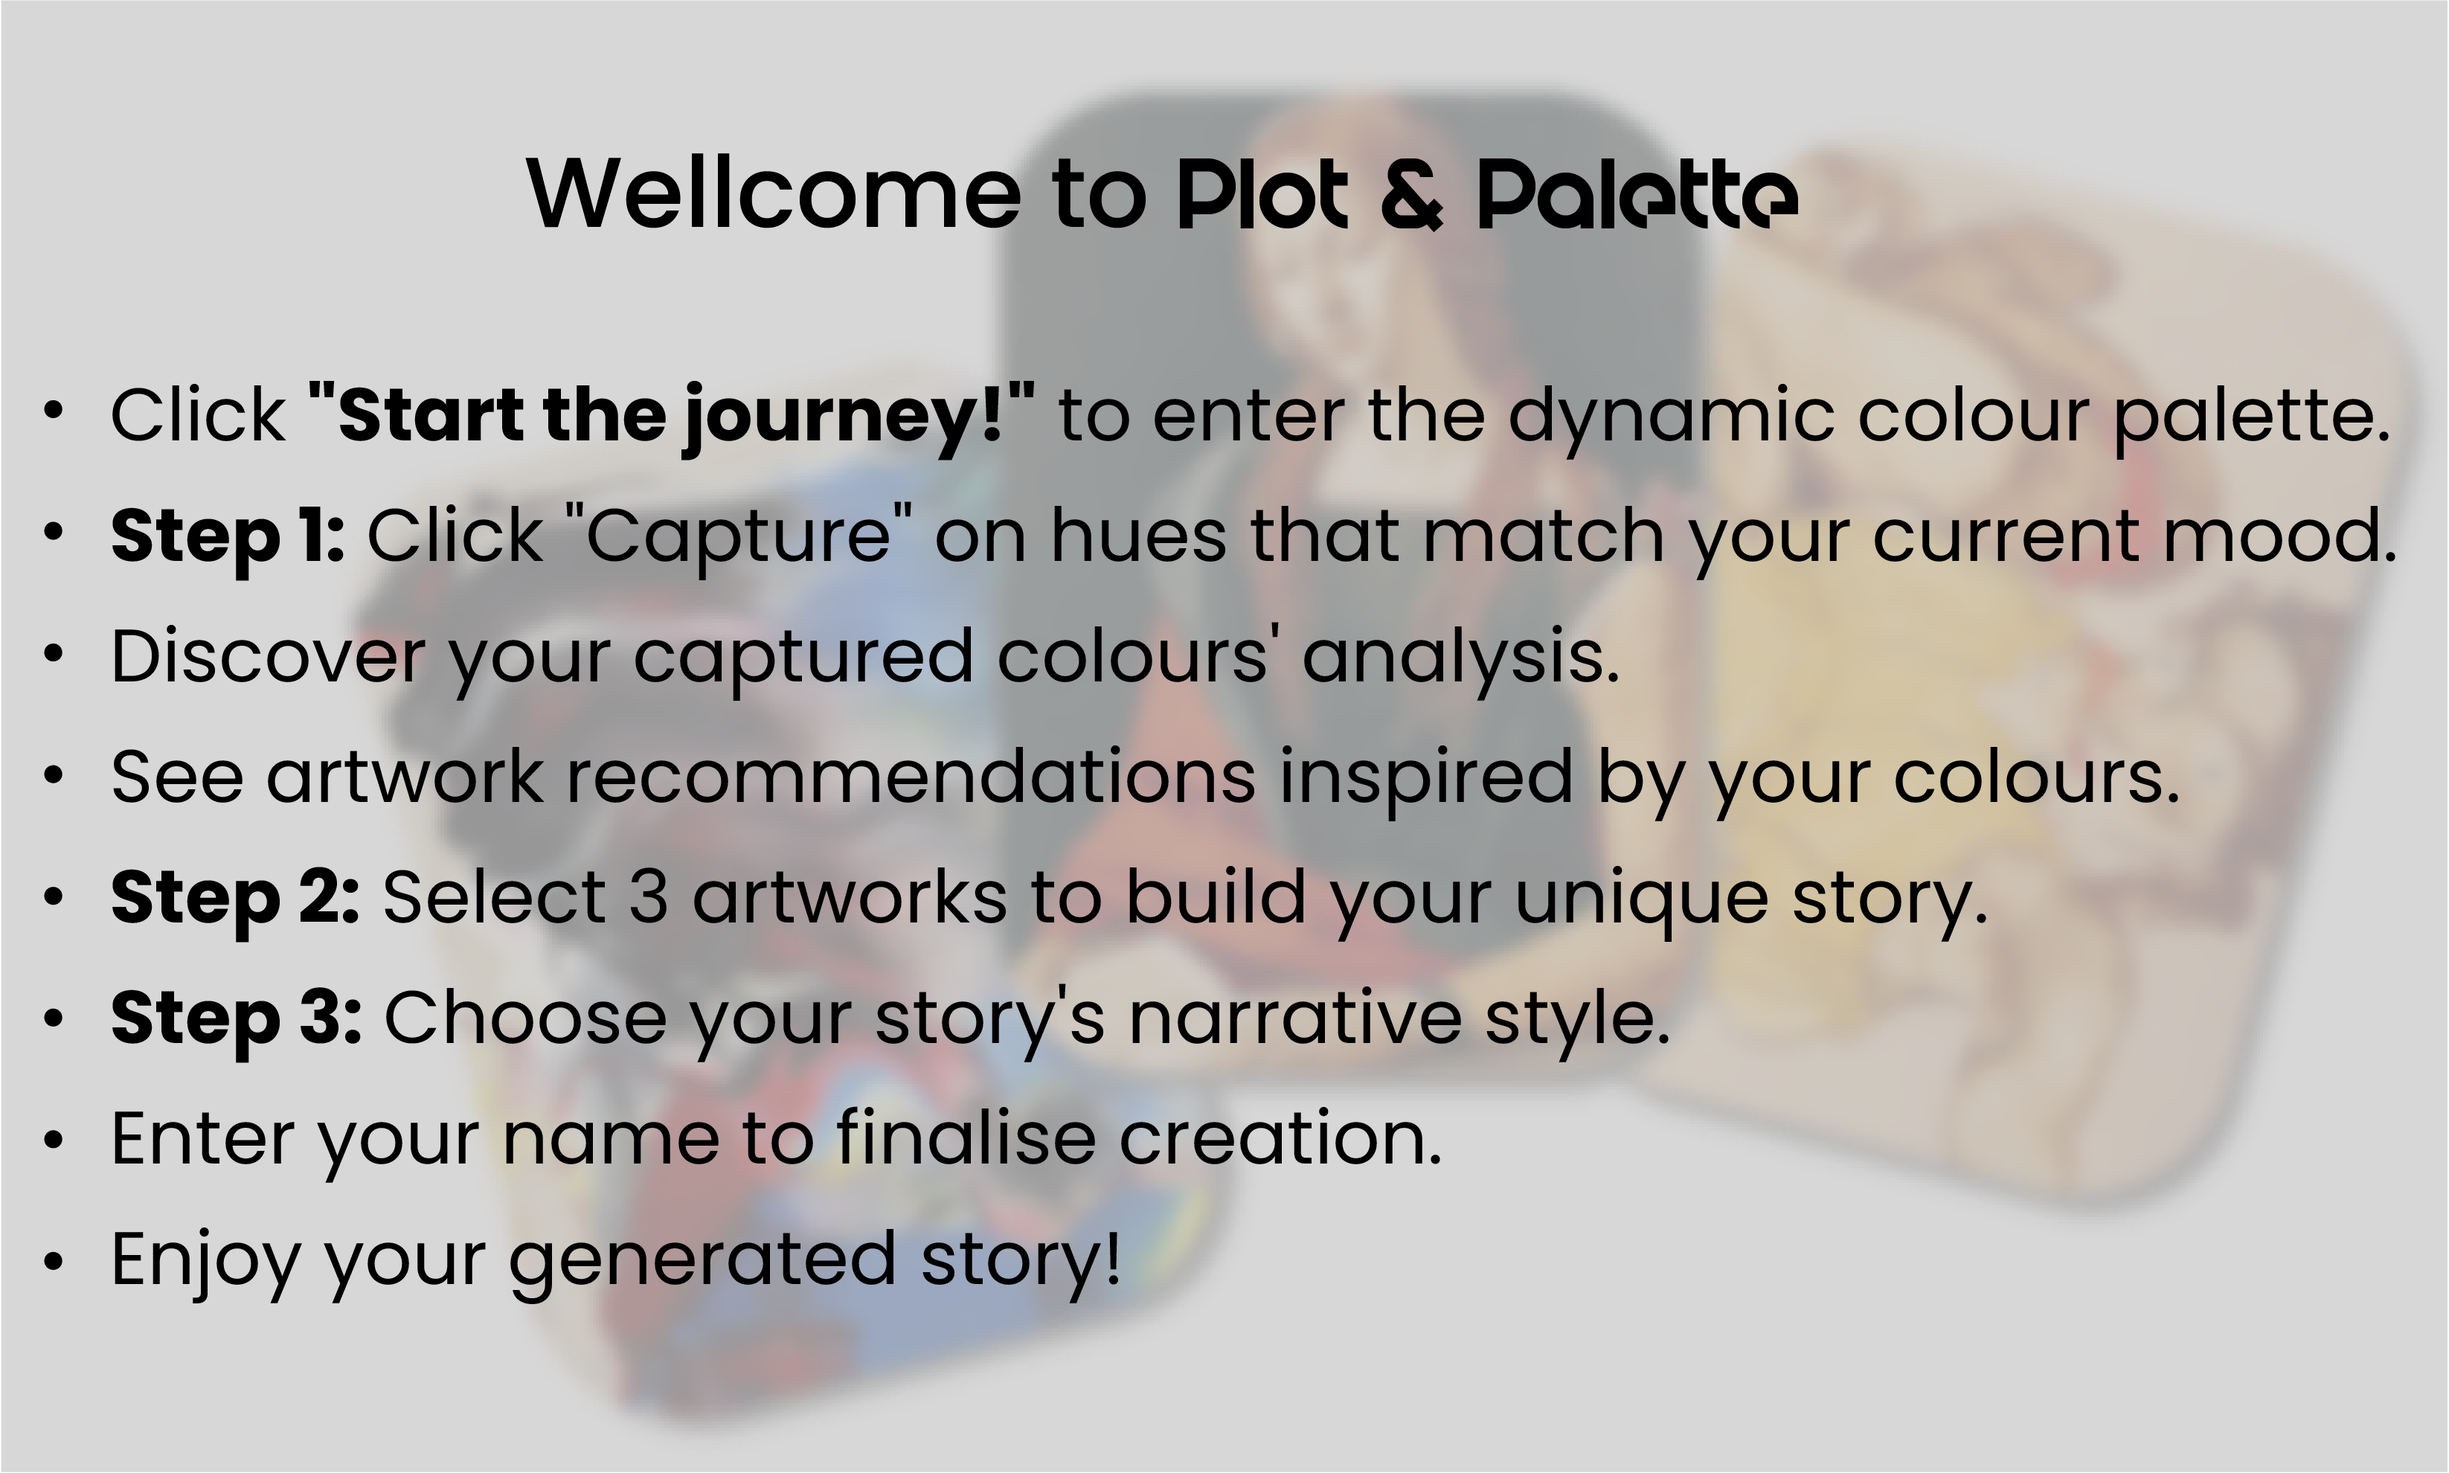
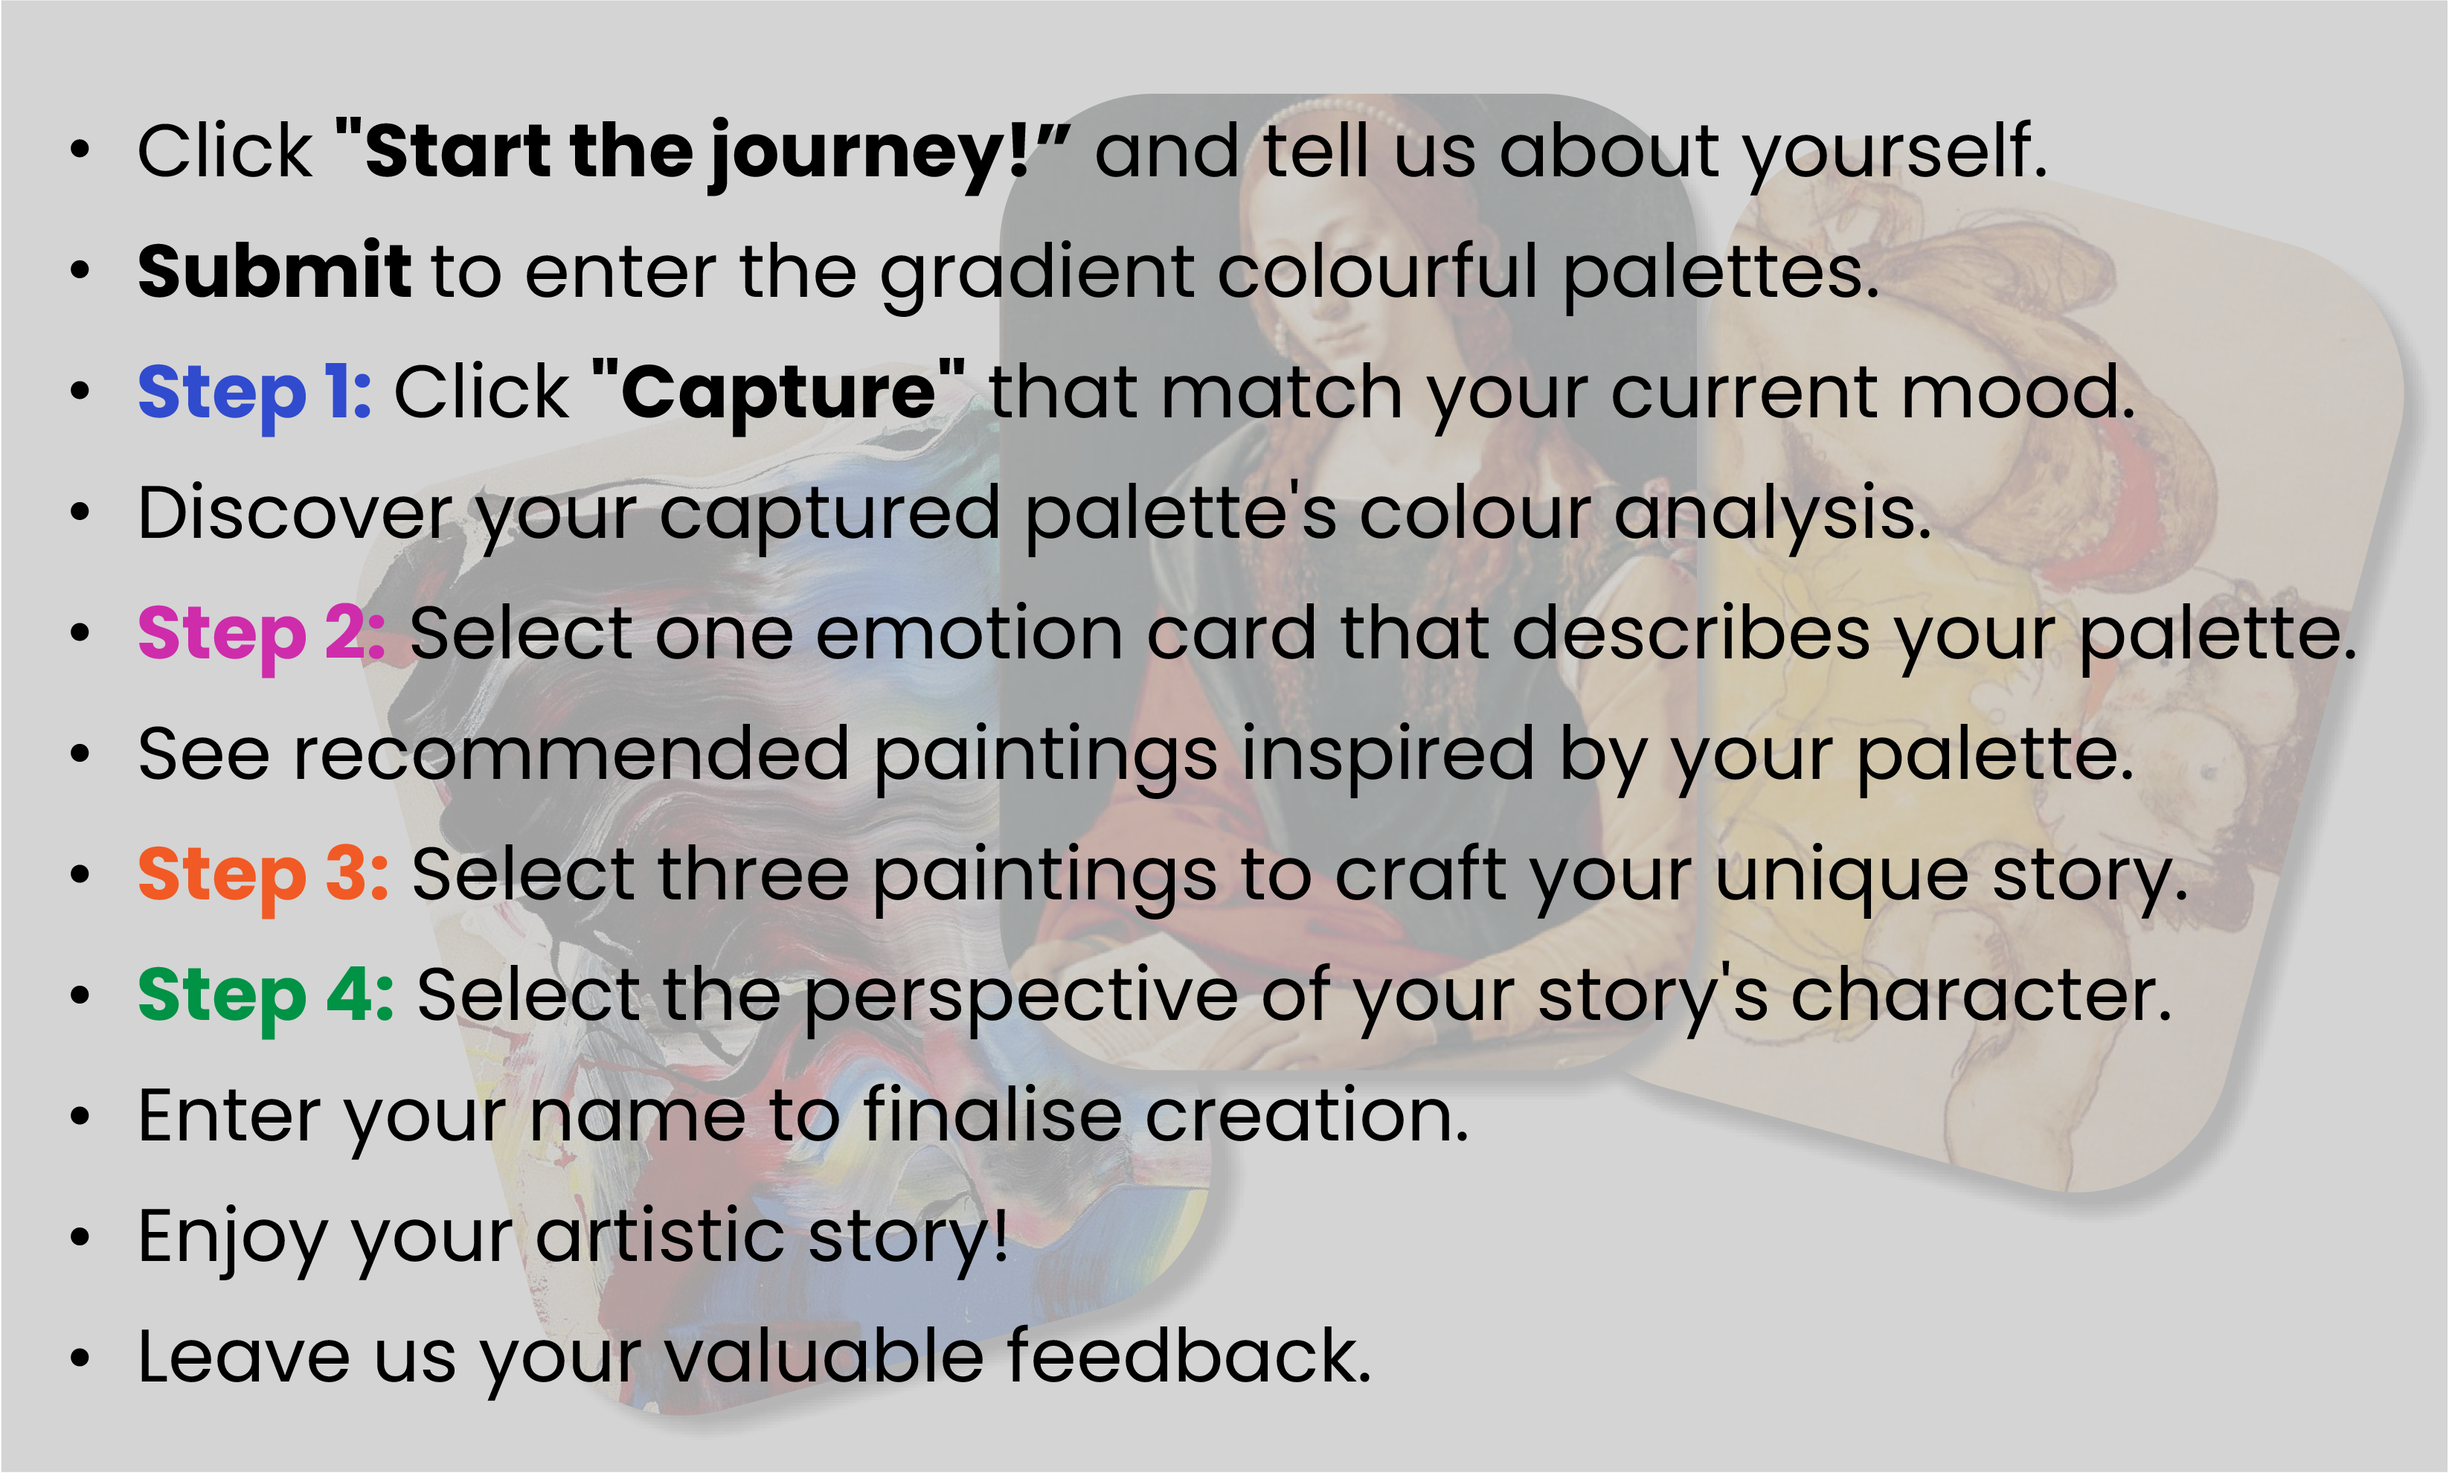
🎨 UI improvements: Update step numbering and styling
✨ Step Number Updates:
- Emotion selection: Step 1 → Step 2
- Painting selection: Step 2 → Step 3
- Character selection: Step 3 → Step 4

🔧 Style Updates:
- More feelings button: 1.2rem, Poppins Medium, capitalize text
- Cursor instruction: 'Move your cursor' → 'Hover your cursor'

🧹 Code Quality:
- Updated .gitignore to prevent debug/test files
- Maintained cursor.png positioning and size
- Consistent UI flow and user experience

The application now has a clearer 4-step user journey:
1. Palette capture
2. Emotion selection
3. Painting selection
4. Character selection

diff --git a/script.js b/script.js
@@ -1068,7 +1068,7 @@ class GradientPalette {
         
         const stepTitle = document.createElement('div');
         stepTitle.className = 'emotion-step-title';
-        stepTitle.textContent = 'Step 1:';
+        stepTitle.textContent = 'Step 2:';
         
         const mainTitle = document.createElement('div');
         mainTitle.className = 'emotion-main-title';
@@ -2408,7 +2408,7 @@ class GradientPalette {
                 
                 <!-- Drag and Drop Selection Area -->
                 <div class="selection-area">
-                    <h3 class="selection-title"><strong>Step 2:</strong> Which paintings spark your curiosity?<br/>Pick three to craft a unique story...</h3>
+                    <h3 class="selection-title"><strong>Step 3:</strong> Which paintings spark your curiosity?<br/>Pick three to craft a unique story...</h3>
                     <br/>
                     <p class="selection-subtitle">Drag and drop paintings into the boxes</p>
                     <div class="drop-zone-container">
@@ -2435,10 +2435,10 @@ class GradientPalette {
                 
                 <!-- Step 3 Character Selection Area -->
                 <div class="character-area">
-                    <h3 class="character-title"><strong>Step 3:</strong> Which character resonates with you?<br/>Dive into their story...</h3>
+                    <h3 class="character-title"><strong>Step 4:</strong> Which character resonates with you?<br/>Dive into their story...</h3>
                     <br/>
                     <p class="character-subtitle">Select the perspective that interests you the most</p>
-                    <p class="character-hover-instruction" style="font-family: 'Poppins', sans-serif; font-weight: 200; font-size: 1rem; color: rgba(255, 255, 255, 0.7); text-align: center; margin-bottom: 30px; font-style: normal;">Move your cursor <img src="image/cursor.png" alt="cursor" class="inline-cursor-icon"> over the cards below to see each story's style</p>
+                    <p class="character-hover-instruction" style="font-family: 'Poppins', sans-serif; font-weight: 200; font-size: 1rem; color: rgba(255, 255, 255, 0.7); text-align: center; margin-bottom: 30px; font-style: normal;">Hover your cursor <img src="image/cursor.png" alt="cursor" class="inline-cursor-icon"> over the cards below to see each story's style</p>
                     <div class="character-grid">
                         <div class="character-card" data-style="1">
                             <img src="image/style1-a.png" alt="Style 1" class="character-image">

diff --git a/styles.css b/styles.css
@@ -1405,11 +1405,11 @@ body.allow-scroll {
     border: none;
     border-radius: 25px;
     font-family: 'Poppins', sans-serif;
-    font-size: 1.1rem;
-    font-weight: 600;
+    font-size: 1.2rem;
+    font-weight: 500;
     cursor: pointer;
     transition: all 0.3s ease;
-    text-transform: uppercase;
+    text-transform: capitalize;
     letter-spacing: 0.5px;
     box-shadow: 0 4px 15px rgba(102, 126, 234, 0.3);
 }

diff --git a/recommendation_service_embedded.py b/recommendation_service_embedded.py
@@ -166,7 +166,7 @@ def predict_emotion_via_api(color_features):
             else:
                 # Single value - get the only probability
                 emotion_predictions[emotion] = float(pred_array[0, 0])
-        
+            
         # Find dominant emotion
         if emotion_predictions:
             dominant_emotion = max(emotion_predictions.items(), key=lambda x: x[1])
@@ -174,13 +174,13 @@ def predict_emotion_via_api(color_features):
             # Convert confidence to percentage for display
             confidence_percentage = f"{dominant_emotion[1] * 100:.1f}%"
             
-            return {
-                "emotion": dominant_emotion[0],
-                "confidence": dominant_emotion[1],
+                return {
+                    "emotion": dominant_emotion[0],
+                    "confidence": dominant_emotion[1],
                 "confidence_percentage": confidence_percentage,
                 "all_probabilities": emotion_predictions
-            }
-        else:
+                }
+            else:
             return simple_emotion_prediction(features_dict)
             
     except Exception as e:

diff --git a/database.py b/database.py
@@ -62,9 +62,9 @@ class DatabaseManager:
                 
                 if missing_tables:
                     logger.info(f"Creating missing tables: {missing_tables}")
-                    # Create tables
-                    self._create_tables(cursor)
-                    connection.commit()
+                # Create tables
+                self._create_tables(cursor)
+                connection.commit()
                     logger.info("Database tables created successfully")
                 else:
                     logger.info("All database tables already exist, skipping creation")
@@ -77,7 +77,7 @@ class DatabaseManager:
             if "already exists" in str(e).lower():
                 logger.info("Tables already exist, continuing...")
             else:
-                raise
+            raise
 
     def _create_tables(self, cursor):
         """Create all required database tables"""
